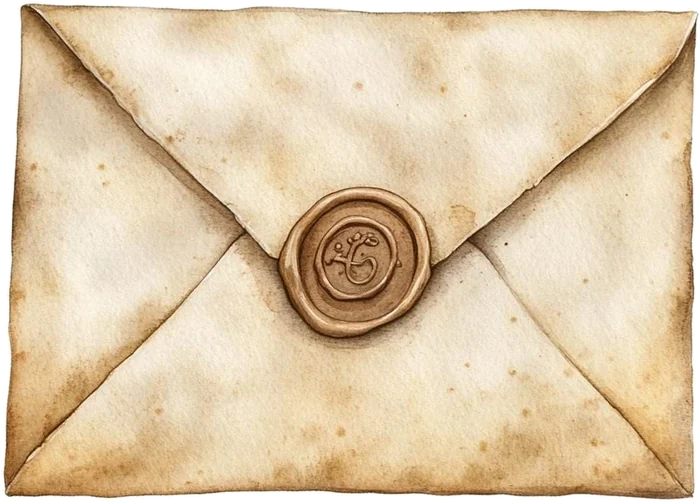
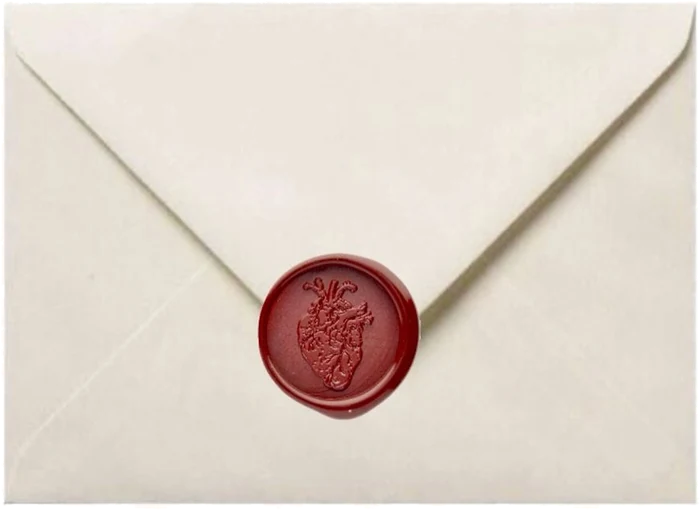
new envelope

diff --git a/index.html b/index.html
@@ -75,18 +75,18 @@ main{position:relative;z-index:1;min-height:100vh;min-height:100dvh;display:flex
 .env-hey{position:relative;z-index:2;font-family:var(--hand);font-size:1.05rem;line-height:2;margin:12px 0 22px;rotate:-3deg}
 .env-float{position:relative;z-index:2;animation:floaty 5s ease-in-out infinite}
 @keyframes floaty{0%,100%{transform:translateY(0)}50%{transform:translateY(-5px)}}
-.env{position:relative;width:min(330px,84vw);aspect-ratio:700/502;cursor:pointer;perspective:1100px;filter:drop-shadow(0 16px 18px rgba(60,40,20,.25));-webkit-user-select:none;user-select:none;touch-action:manipulation}
+.env{position:relative;width:min(330px,84vw);aspect-ratio:700/510;cursor:pointer;perspective:1100px;filter:drop-shadow(0 16px 18px rgba(60,40,20,.25));-webkit-user-select:none;user-select:none;touch-action:manipulation}
 .env-layer{position:absolute;inset:0;background:url("assets/envelope.webp") center/100% 100% no-repeat}
-.env-in{z-index:1;clip-path:polygon(4% 3%,96% 3%,90% 17%,75% 32%,62% 44%,50% 55%,38% 49%,25% 33%,10% 11%);background:var(--grain),linear-gradient(180deg,#A88A5E,#CDB38A 70%,#D8C29C)}
+.env-in{z-index:1;clip-path:polygon(3% 4%,97% 4%,60% 58.8%,47.9% 66%,38.3% 58.4%);background:var(--grain),linear-gradient(180deg,#BDB3A2,#D9D1C3 70%,#E6DFD3)}
 .env-letter{position:absolute;left:9%;right:9%;top:5%;height:82%;z-index:2;background:var(--grid),var(--paper);border-radius:3px;padding:14px 16px;text-align:left;opacity:0;transition:transform 1s cubic-bezier(.3,1.15,.4,1) .9s,opacity 0s .8s}
 .env-letter .hand{font-size:.9rem;color:var(--ink)}
-.env-body{z-index:3;clip-path:polygon(0 2%,10% 10%,25% 33%,38% 49%,50% 55%,62% 44%,75% 32%,90% 17%,100% 2%,100% 100%,0 100%)}
-.env-flap{z-index:4;clip-path:polygon(0 0,100% 0,100% 2%,90% 17%,75% 32%,62% 44%,50% 55%,38% 49%,25% 33%,10% 10%,0 2%);transform-origin:50% 1.5%;transition:transform .8s cubic-bezier(.55,0,.3,1) .4s,z-index 0s .8s,filter .4s .8s}
-.env-addr{position:absolute;z-index:5;left:0;right:0;bottom:12%;font-family:var(--hand);color:#4A3420;font-size:clamp(.95rem,4.2vw,1.1rem);line-height:1.6;pointer-events:none;transition:opacity .3s}
-.env-crack{position:absolute;z-index:6;left:49.5%;top:52%;width:22%;translate:-50% -50%;overflow:visible;pointer-events:none}
-.env-crack path{stroke-dasharray:120;stroke-dashoffset:120}
-.env-glow{position:absolute;z-index:6;left:49.5%;top:52%;width:24%;aspect-ratio:1;translate:-50% -50%;border-radius:50%;box-shadow:0 0 0 0 rgba(196,98,28,.45);animation:sealPing 1.8s ease-out infinite;pointer-events:none}
-@keyframes sealPing{0%{box-shadow:0 0 0 0 rgba(196,98,28,.45)}100%{box-shadow:0 0 0 18px rgba(196,98,28,0)}}
+.env-body{z-index:3;clip-path:polygon(0 6%,1.7% 6.9%,38.3% 58.4%,47.9% 66%,60% 58.8%,98.9% 5.9%,100% 6%,100% 100%,0 100%)}
+.env-flap{z-index:4;clip-path:polygon(0 0,100% 0,100% 6%,98.9% 5.9%,60% 58.8%,47.9% 66%,38.3% 58.4%,1.7% 6.9%,0 6%);transform-origin:50% 0;transition:transform .8s cubic-bezier(.55,0,.3,1) .4s,z-index 0s .8s,filter .4s .8s}
+.env-addr{position:absolute;z-index:5;left:0;right:0;bottom:4%;font-family:var(--hand);color:#3B302A;font-size:clamp(.95rem,4.2vw,1.1rem);line-height:1.6;pointer-events:none;transition:opacity .3s}
+.env-crack{position:absolute;z-index:6;left:47.7%;top:66.1%;width:22.8%;translate:-50% -50%;overflow:visible;pointer-events:none}
+.env-crack path{stroke:#3A0A0E;stroke-dasharray:120;stroke-dashoffset:120}
+.env-glow{position:absolute;z-index:6;left:47.7%;top:66.1%;width:23.5%;aspect-ratio:1;translate:-50% -50%;border-radius:50%;box-shadow:0 0 0 0 rgba(150,25,35,.45);animation:sealPing 1.8s ease-out infinite;pointer-events:none}
+@keyframes sealPing{0%{box-shadow:0 0 0 0 rgba(150,25,35,.45)}100%{box-shadow:0 0 0 18px rgba(150,25,35,0)}}
 .env.open{cursor:default}
 .env.open .env-glow{animation:none;opacity:0}
 .env.open .env-crack path{transition:stroke-dashoffset .3s ease-out;stroke-dashoffset:0}
@@ -957,7 +957,7 @@ function openEnvelope(){
   env.classList.add("open");
   crack(); whoosh();
   const r = env.getBoundingClientRect();
-  setTimeout(() => burst(r.left + r.width * .495, r.top + r.height * .52, { count: 16, spread: 360, speed: 4, gravity: .15, shapes: ["circle"], colors: ["#8B5A2B", "#B98545", "#5E3A18"], size: [4, 8], decay: .03 }), 280);
+  setTimeout(() => burst(r.left + r.width * .477, r.top + r.height * .661, { count: 16, spread: 360, speed: 4, gravity: .15, shapes: ["circle"], colors: ["#8E1B22", "#B3262E", "#5E0F14"], size: [4, 8], decay: .03 }), 280);
   setTimeout(() => { burst(r.left + r.width / 2, r.top - 20, { count: 26, angle: -90, spread: 120, speed: 6, gravity: .12, shapes: ["rect", "circle"], size: [8, 14] }); pip(); }, 1500);
   setTimeout(() => show("ask"), 2200);
 }
